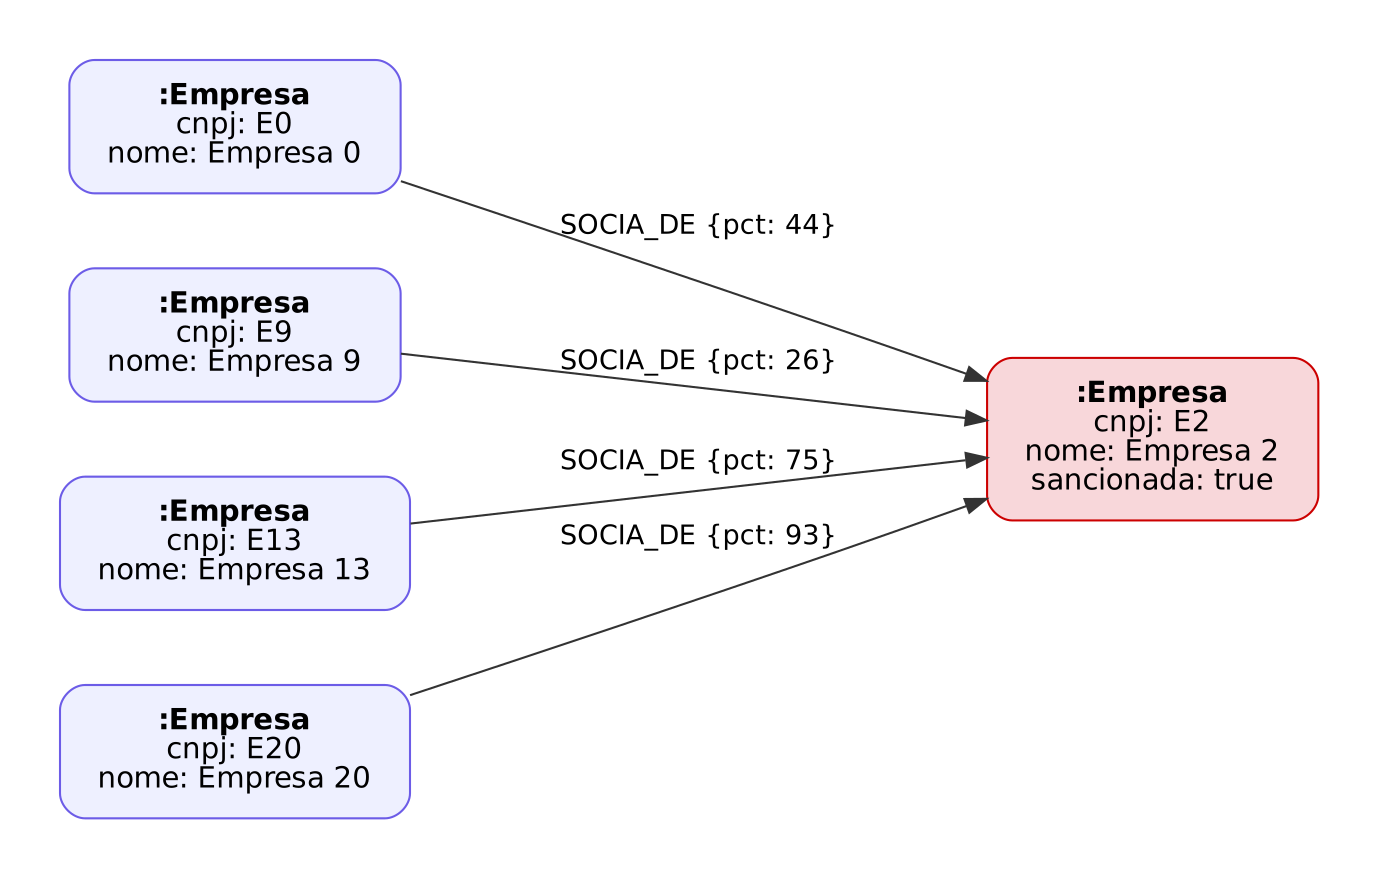
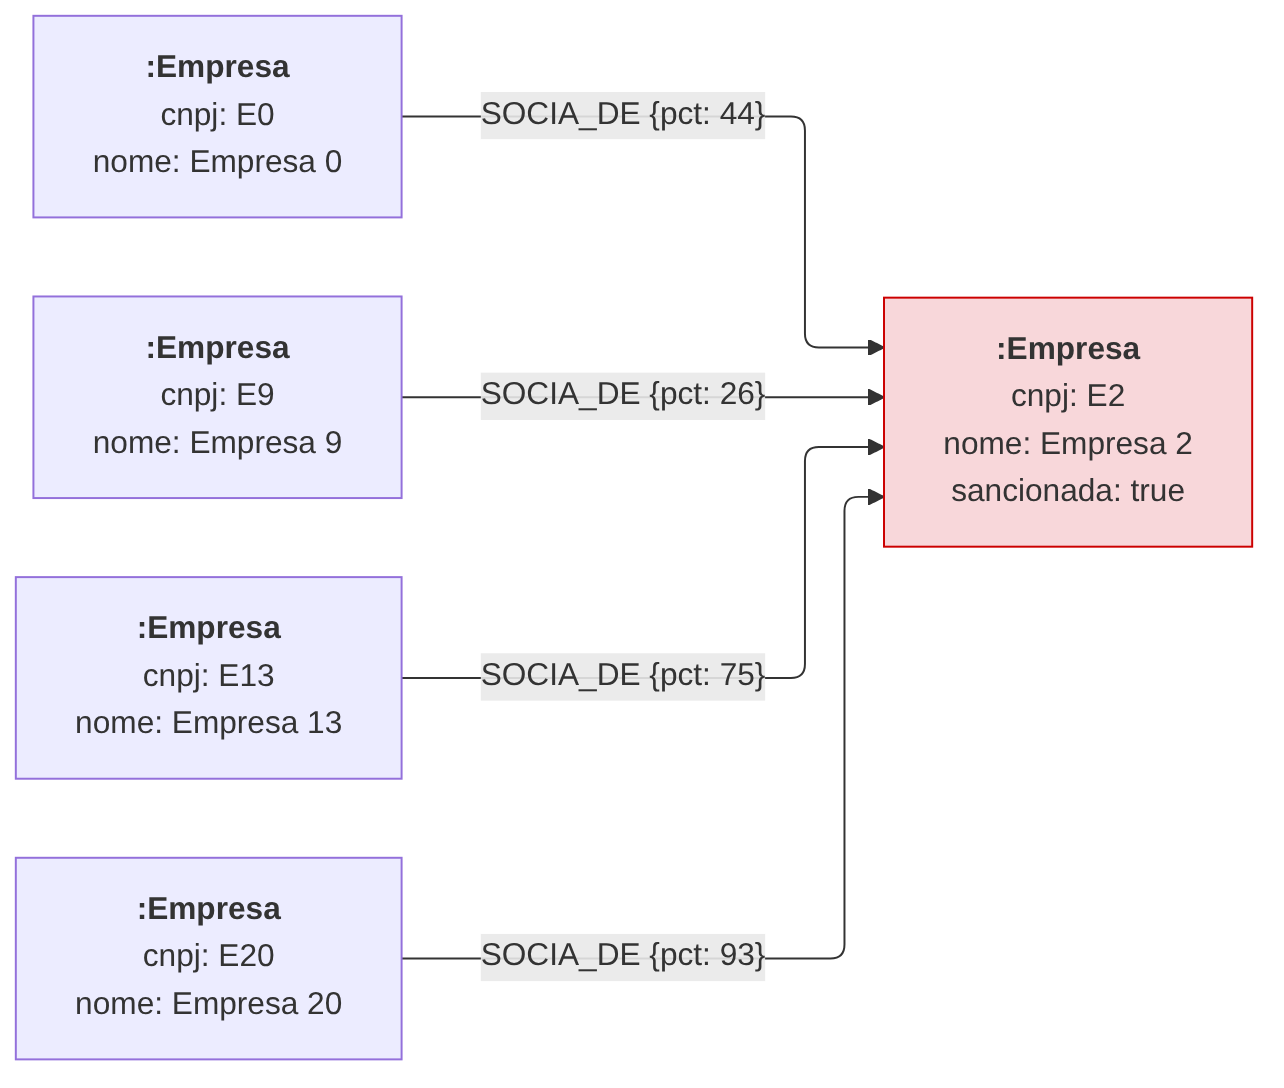
C1 - deixa so as imagens dos diagramas

diff --git a/README.md b/README.md
@@ -502,33 +502,17 @@ O índice do item b da A1 (`terminal, classe, ts, peso_kg`) foi apagado, porque 
 
 ### C1. Modelagem
 
-Desenhei os diagramas em Mermaid. Os arquivos-fonte estão na pasta diagramas (C1_modelo.mmd e C1_subgrafo_E2.mmd) e as imagens na pasta evidencias. Na mesma pasta também deixei o arquivo C1_diagramas.drawio, com os dois diagramas para abrir no draw.io.
-
 Modelo do grafo:
 
 ![C1 modelo](evidencias/C1_modelo.png)
 
-Como ler:
-
-- Caixa é um nó. O nome com dois pontos é o rótulo e embaixo vêm as propriedades.
-- Seta é um relacionamento, sempre com direção. O texto da seta é o tipo e, entre chaves, as propriedades dele.
-- `(a)-[:SOCIA_DE {pct}]->(b)` quer dizer que a empresa a é sócia da empresa b, com pct por cento de participação.
-- `(k)-[:PERTENCE_A]->(e)` quer dizer que o contêiner k é da empresa e.
-- `(k)-[:PASSOU_POR {data}]->(t)` quer dizer que o contêiner k passou pelo terminal t naquela data.
-- `(a)-[:EMPILHADO_SOBRE]->(b)` quer dizer que o contêiner a está em cima do contêiner b.
-
-Não tem chave estrangeira nem tabela no meio. A participação societária e a data da passagem ficam guardadas no próprio relacionamento, que é como o grafo trata a ligação entre duas coisas.
+Cada caixa é um tipo de nó, com as suas propriedades. Cada seta é um relacionamento, com a direção e as propriedades dele. Uma empresa pode ser sócia de outra empresa, o contêiner pertence a uma empresa, passa por terminais em uma data e pode estar empilhado em cima de outro contêiner. Não tem chave estrangeira nem tabela no meio. A participação societária e a data da passagem ficam guardadas no próprio relacionamento.
 
 Exemplo real do meu grafo, a empresa sancionada E2 e os sócios diretos dela:
 
 ![C1 subgrafo E2](evidencias/C1_subgrafo_E2.png)
 
-Consulta usada para tirar esses dados do banco:
-
-```cypher
-MATCH (s:Empresa {sancionada: true})-[r:SOCIA_DE]-(socio:Empresa)
-RETURN socio.nome AS socio, r.pct AS pct, startNode(r) = socio AS socio_aponta_para_E2
-```
+Esses dados saíram do meu banco no Neo4j:
 
 ![C1 socios](evidencias/C1_socios_E2.png)
 
